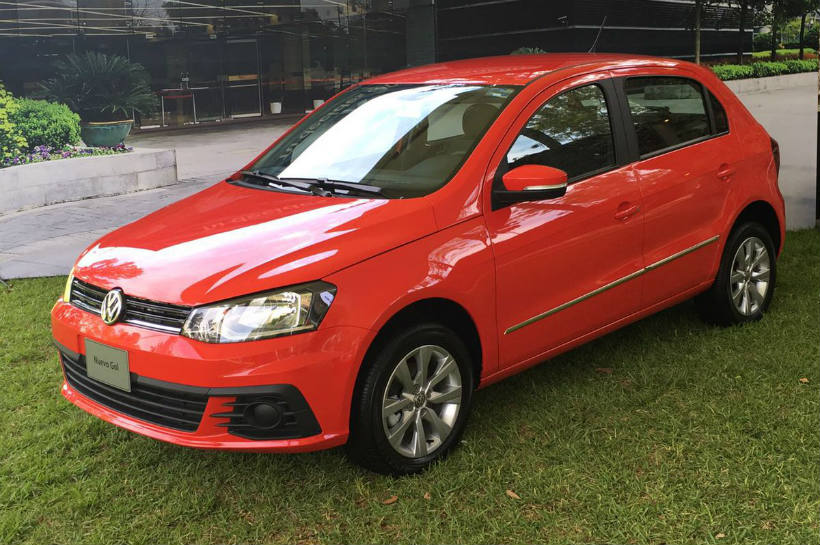
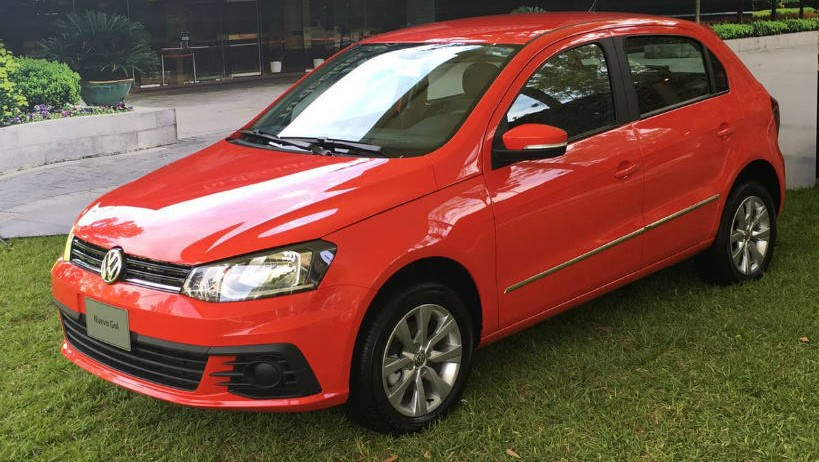
miercoles 02
cuerpo de la pagina e inicio de pie de pagina 14:00 terminar

diff --git a/index.html b/index.html
@@ -60,43 +60,117 @@
       </ol>
 		
 	  <div class="carousel-inner" role="listbox">
-	    
+	    <!--primera imagen del carrucel-->
 		<div class="carousel-item active"> 
-			<img class="d-block mx-auto" src="images/logo2.png" alt="First slide">
+			<img class="d-block mx-auto" src="images/logo2.png" alt="First slide" style="max-width: 100%;width: auto;height: auto">
 	      <div class="carousel-caption">
 	        <h5></h5>
 	        <p></p>
           </div>
         </div>
-		  
+		<!--segunda imagen del carrucel-->  
 	    <div class="carousel-item"> 
-			<img class="d-block mx-auto" src="images/master Renauld.jpg" alt="Second slide">
+			<img class="d-block mx-auto" src="images/master Renauld.jpg" alt="Second slide" style="max-width: 100%;width: auto;height: auto">
 	      <div class="carousel-caption">
 	        <h5>Linea Blanca</h5>
 	        <p>Soluciones de transporte de personal, equipos, herramientas y materiales</p>
           </div>
         </div>
-		  
+		<!--tercera imagen del carrucel-->
 	    <div class="carousel-item"> 
-			<img class="d-block mx-auto" src="images/2019-Ford-Ranger-Lariat-11.webp" alt="Third slide">
+			<img class="d-block mx-auto" src="images/2019-Ford-Ranger-Lariat-11.webp" alt="Third slide" style="max-width: 100%;width: auto;height: auto">
 	      <div class="carousel-caption">
 	        <h5>Linea Rural</h5>
 	        <p>Alquiler de vehículos 4x4</p>
           </div>
         </div>
-		
-		  
+		<!--cuarta imagen del carrucel-->
 	    <div class="carousel-item"> 
-			<img class="d-block mx-auto" src="images/volkswagen-gol-2017.jpg" alt="Fourd slide">
+			<img class="d-block mx-auto" src="images/volkswagen-gol-2017.jpg" alt="Fourd slide" style="max-width: 100%;width: auto;height: auto">
 	      <div class="carousel-caption">
 	        <h5>Linea Urbana</h5>
 	        <p>Alquiler de vehículos para recorrer la ciudad y transportarse por las vias paviementadas</p>
+          </div>
+        </div>
+		<!--quinta imagen del carrucel-->
+	    <div class="carousel-item"> 
+			<img class="d-block mx-auto" src="images/maquinaamarilla.jpeg" alt="fiveth slide" style="max-width: 100%;width: auto;height: auto">
+	      <div class="carousel-caption">
+	        <h5>Linea amarilla</h5>
+	        <p>Alquiler de equipos para proyectos de infraestructura</p>
           </div>
         </div>
       </div>
 		
 	  <a class="carousel-control-prev" href="#carouselExampleIndicators1" role="button" data-slide="prev"> <span class="carousel-control-prev-icon" aria-hidden="true"></span> <span class="sr-only">Previous</span> </a> <a class="carousel-control-next" href="#carouselExampleIndicators1" role="button" data-slide="next"> <span class="carousel-control-next-icon" aria-hidden="true"></span> <span class="sr-only">Next</span> </a> </div>
 
+	  <!--cuerpo de la pagina-->
+	  <section class="container">
+	  	<div class="row">
+			<div class="col-md-8 col-md-offset-2 text-center">
+				<h3>BROSS CORP</h3>
+				<P>HOLA</P>
+			</div>  
+		</div>
+	  </section>
+	    <!--columnas con informacion-->
+		<section class="container">
+			<div class="row">
+				<!--primera columna-->
+				<div class="col-md-4">
+					<div class="img-thumbnail text-center">
+						<img src="images/alquilerpordia.jpg" alt="" style="max-width: 100%;width: auto;height: auto">
+						<h3>RESERVA POR DIA</h3>
+						<p>Si estas de viaje, por negocios o placer y necesitas un vehiculó para movilizare por algunos días esta es tu mejor opción.</p>
+						<a class="btn btn-danger" href="">Mas.....</a>
+					</div>
+				</div>
+				<!--segunda columna-->
+				<div class="col-md-4">
+					<div class="img-thumbnail text-center">
+						<img src="images/alquilerlargoplazo.jpg" alt="">
+						<h3>ALQUILER A LARGO PLAZO</h3>
+						<p>Para profesionales o empresas que se encuentran brindando un servicio, por un periodo considerable de tiempo, de varias semanas, o meses.</p>
+						<a class="btn btn-danger" href="">Mas.....</a>
+					</div>
+				</div>
+				<!--tercera columna-->
+				<div class="col-md-4">
+					<div class="img-thumbnail text-center">
+						<img src="images/paquetes.jpg" alt="" style="max-width: 100%;width: auto;height: auto">
+						<h3>PAQUETES DE SERVICIOS</h3>
+						<p>Necesitas que el vehiculó se te entregue o sea recogido en algún lugar en especial, o deseas optimizar tu tiempo de viaje con un conductor profesional que te permita trabajar durante el mismo.</p>
+						<a class="btn btn-danger" href="">Mas.....</a>
+					</div>
+				</div>
+			</div>  
+		</section>
+	
+	<!--PIE DE PAGINA-->
+		<FOOTER>
+			<!--SECCION 01-->
+	  		<section>
+				<div class="container">
+					<div class="row">
+						<!--mapa de sitio-->
+						<div class="col-md-6">
+							<h3>MAPA DE SITIO</h3>
+							<P>Inicio</P>
+							<P></P>
+						</div>
+						<!--datos de informacion-->
+						<div class="col-md-6">
+							
+						</div>
+					</div>
+				</div>
+			</section>
+			<!--SECCION 02-->
+			<section>
+				
+			</section>
+		</FOOTER>
+	    
 	<!-- jQuery (necessary for Bootstrap's JavaScript plugins) --> 
 	<script src="js/jquery-3.3.1.min.js"></script>
 
